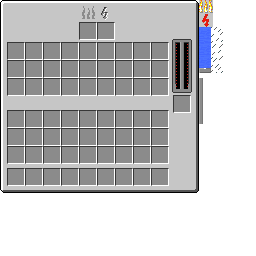
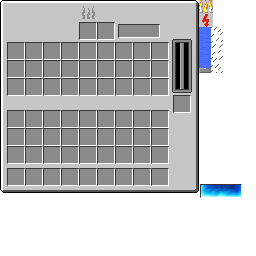
Changed GUI for boiler

diff --git a/src/minecraft/deathrat/mods/btbees/gui/GuiBoiler.java b/src/minecraft/deathrat/mods/btbees/gui/GuiBoiler.java
@@ -52,6 +52,8 @@ public class GuiBoiler extends GuiTE
             this.drawTexturedModalRect(x + 176, y + 43 + 46 - waterLevel, 199, 73 - waterLevel, 12, waterLevel + 5);
         }
 
+        //drawTexturedModalRect(xPos, yPos, u, v, width, height)
+
         //Middle bar
         this.drawTexturedModalRect(x + 180, y + 42, 199, 78, 4, 43);
 
@@ -59,12 +61,15 @@ public class GuiBoiler extends GuiTE
         this.drawTexturedModalRect(x + 176, y + 43, 211, 27, 12, 42);
 
         //Energy bar
-        int energyLevel = tileEntity.getScaledEnergyStored(14);
-        this.drawTexturedModalRect(x + 98, y + 6 + 14 - energyLevel, 199, 26 - energyLevel, 14, energyLevel);
+        int energyScale = 42;
+        int energyLevel = tileEntity.getScaledEnergyStored(energyScale);
+        if(energyLevel > 0)
+        	this.drawTexturedModalRect(x + 118, y + 24, 200 + energyScale - energyLevel, 184, energyLevel-1, 14);
 
         //Fire bar
-        int fireLevel = tileEntity.getScaledFireLevel(12);
-        this.drawTexturedModalRect(x + 81, y + 6 + 12 - fireLevel, 199, 12 - fireLevel, 14, fireLevel);
+        int fireScale = 12;
+        int fireLevel = tileEntity.getScaledFireLevel(fireScale);
+        this.drawTexturedModalRect(x + 81, y + 6 + fireScale - fireLevel, 199, fireScale - fireLevel, 14, fireLevel);
 
     }
 

diff --git a/src/minecraft/deathrat/mods/btbees/tileentity/TileEntityBoiler.java b/src/minecraft/deathrat/mods/btbees/tileentity/TileEntityBoiler.java
@@ -37,7 +37,7 @@ public class TileEntityBoiler extends TileEntity implements IInventory, IPowerRe
 
 		powerProvider.configure(10 * 2, 2 * 1200);
 
-		powerProvider.setEnergyStored(0F);
+		powerProvider.setEnergyStored(600F);
 	}
 
 	@Override
@@ -174,9 +174,16 @@ public class TileEntityBoiler extends TileEntity implements IInventory, IPowerRe
                 }
         }
 
-		this.powerProvider.setEnergyStored(tagCompound.getFloat("energyLevel"));
-		if(Float.isNaN(tagCompound.getFloat("energyLevel")))
-			powerProvider.setEnergyStored(0.0F);
+        try
+        {
+    		this.powerProvider.setEnergyStored(tagCompound.getFloat("energyLevel"));
+    		if(Float.isNaN(powerProvider.getEnergyStored()))
+    			powerProvider.setEnergyStored(0.0F);
+        }
+        catch(Exception e)
+        {
+        	powerProvider.setEnergyStored(0.0F);
+        }
 		fireLevel = tagCompound.getInteger("fireLevel");
 		waterLevel = tagCompound.getInteger("waterLevel");
 	}
